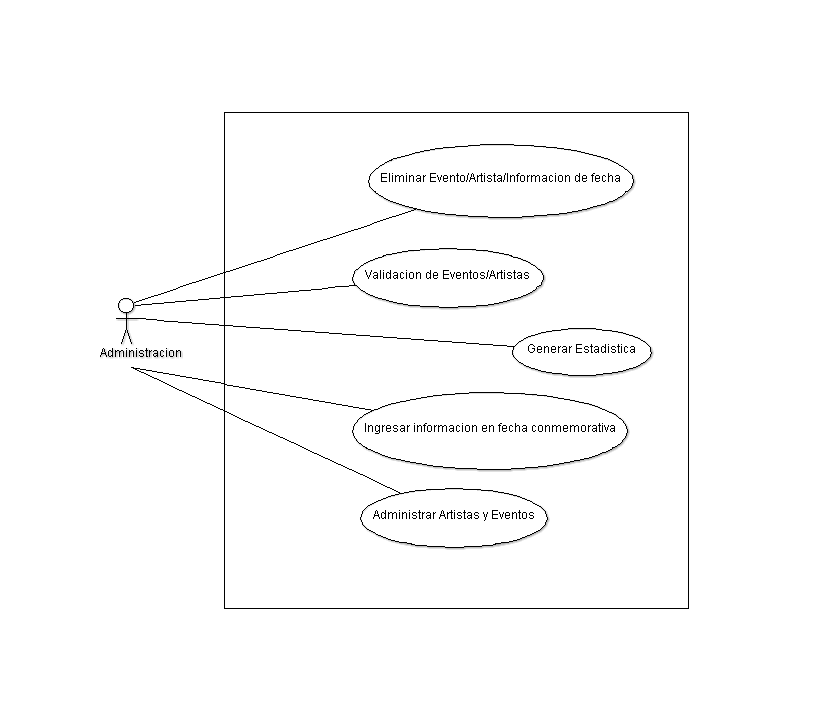
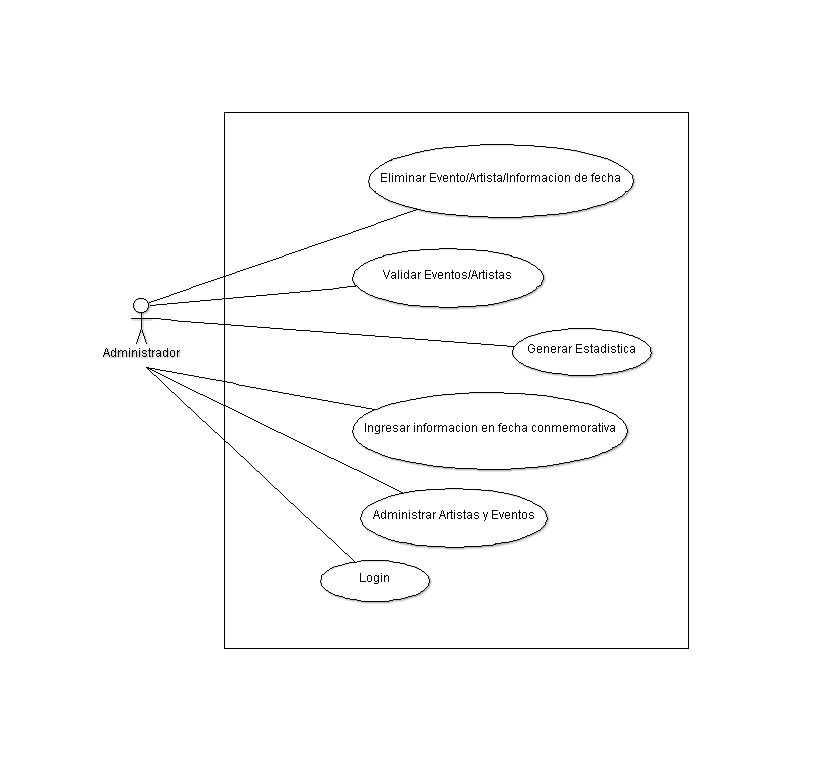
correcciones y ultima entrega

diff --git a/source/tiempos.rst b/source/tiempos.rst
@@ -4,31 +4,63 @@ Desarrollo del proyecto
 Cómo se trabajará
 -----------------
 
-Explicación de cómo se trabajará la aplicación, como ciclo de vida, prototipos,
-etc.
+Se trabajara con el modelo MDSD o método de desarrollo de sistemas dinámicos.
+
+Este modelo de desarrollo es de forma interativa y creciente, además que la
+comunicación con el cliente es algo esencial además que cualquier cambio durante el
+proceso de desarrollo puede ser revertido o no, ya que se pueden realizar los cambios
+en cualquier momento se tendrán menos errores en el despliegue del sistema.
+
+Las fases de este modelo son:
+  - Estudio de viabilidad.
+  - Estudio de la empresa.
+  - Iteración del modelo funcional.
+  - diseño e iteración de la estructura
+  - implementación.
 
 Actividades a realizar
 ----------------------
 
-Listado de actividades importantes que el cliente debe de tener en cuenta, como por
-ejemplo, el análisis, la implementación, capacitaciones, etc.
+Las actividades más relevantes son:
+  - Comunicación con el cliente: En esta actividad se realizaran entrevistas al cliente, en
+    las cuales se le preguntaran los requisitos necesarios para el sistema.
+  - La viabilidad del proyecto: si es realizable el proyecto.
+  - El Análisis: parte donde se diseñara el sistema.
+  - Construcción del sistema: será la creación del sistema.
+  - Despliegue del sistema: Esta actividad es cuando se monta el sistema en la
+    empresa y se ve su funcionamiento.
+  - La retroalimentación: Esta parte es cuando los usuarios darán su opinión del sistema y
+    Esto hará que se sepa dónde se pueden encontrar problemas y mejorarlo.
+  - Capacitaciones: esta parte es muy importante ya que si el personal no sabe como
+    manejar el sistema no lo utilizara y perderá su propósito.
+
 
 Entregables
 -----------
 
-Se listan y se describen cada uno de los elementos que se entregarán al final
-del proyecto, como código fuente, manuales, etc.
+Cuando el proyecto sea finalizado se entregara al cliente:
+  - El sistema.
+  - codigo fuente.
+  - manual de usuario.
+  - manual tecnico.
+  - esquema de la base de datos.
 
 Tabla de tiempos y costos
 -------------------------
 
-Se crea una tabla de tiempos estipulados de desarrollo al igual que los costos,
-pero en el caso del proyecto solamente se colocarán los tiempos, ya que la
-evaluación de costos se verá en otros cursos mas adelante.
+  =============================  ============
+  Actividad                      Tiempo
+  =============================  ============
+  Primera Entrevista              3(dias)
+  Diagramas de caso de Uso        1(semana)
+  Revision de casos               1(dia)
+  Segunda Entrevista              1(dia)
+  Correccion diagrama de casos    2(semanas)
+  creacion diagrama ER            1(semana)
+  Construccion del Sistema        3(meses)
+  Despliege                       1(semana)
+  =============================  ============
+
 
 Condiciones
 -----------
-
-Condiciones legales, administrativas o de otra índole que el cliente debe de
-tomar en cuenta para la realización del proyecto, como fechas de pago, licencias,
-requerimientos, etc.

diff --git a/source/objetivos.rst b/source/objetivos.rst
@@ -50,10 +50,9 @@ el arte y la cultura.
 Misión del proyecto
 -------------------
 
-Obtener información confiable sobre los eventos realizados y a partir
-de esta poder generar estadísticas las cuales faciliten la toma de decisiones
-de los altos mandos sobre que tipo de eventos son bien recibidos por ejemplo: conciertos,
-talleres de pintura, poesia, entre otros.
+Generar estadísticas de eventos las cuales faciliten la toma de decisiones de los altos mandos,
+las estadísticas se basaran en cuales eventos son mejores recibidos y se podrán clasificar
+por la actividad que se realizó, las cuales pueden ser: conciertos, talleres de pintura, poesía, entre otros.
 
 
 Objetivos del proyecto

diff --git a/source/proyecto.rst b/source/proyecto.rst
@@ -64,7 +64,8 @@ Diagrama de caso de uso: :ref:`referencia-i`.
 
 Administración
 ^^^^^^^^^^^^^^
-El encargado podrá confirmar la creación de artistas o eventos.
+El encargado podrá confirmar la creación de artistas o eventos, es necesario contar con una
+contraseña para poder ingresar al sistema.
 
 Se podrán gestionar a los artistas, eventos y los espacios informativos, esto quiere
 decir que podrá eliminar artistas, eventos o espacios informativos.

diff --git a/source/disenio.rst b/source/disenio.rst
@@ -71,9 +71,11 @@ votación o comentarios, estas se enfocan en los eventos.
 Clases
 ------
 
-Diagramas de clases y de sus distintas actividades, si fuese necesario.
-
 Diagrama de BD
 --------------
 
-Diagrama de la Base de Datos que requerirá el software.
+.. image:: diagramas/DiagramaER.png
+ :height: 15cm
+ :width: 15cm
+ :scale: 100%
+ :align:  center
